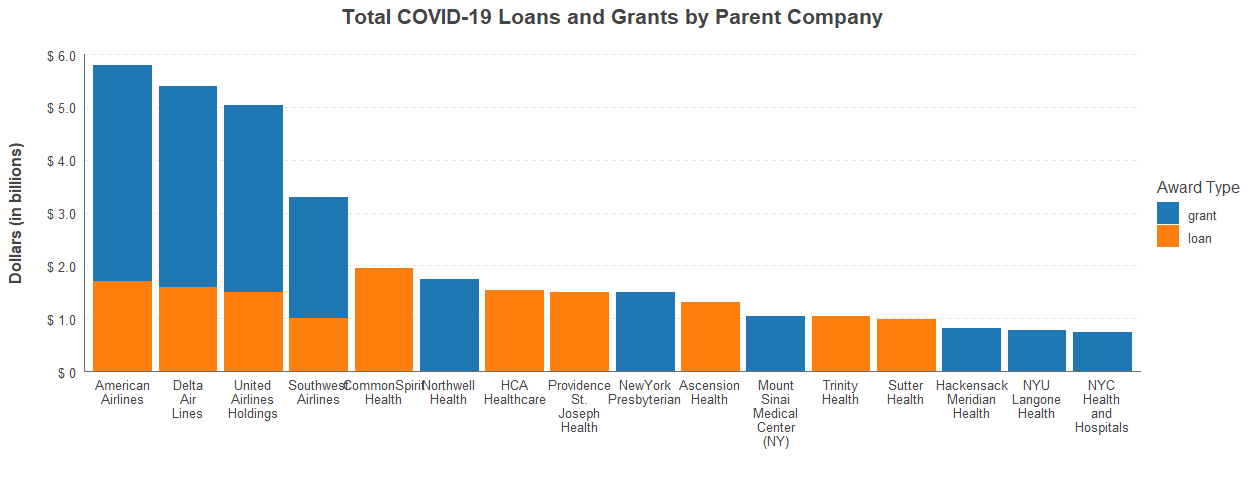
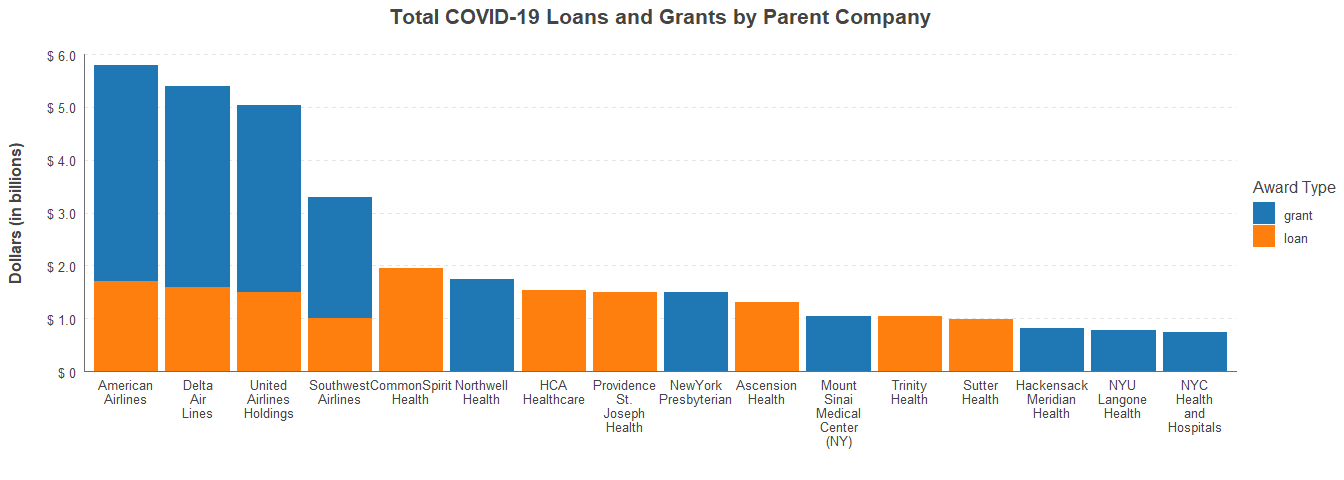
update 2

diff --git a/3_Top_Parent_Companies/3_top_parent_companies_basic.md b/3_Top_Parent_Companies/3_top_parent_companies_basic.md
@@ -1,4 +1,4 @@
-Part 3: Top Parent Company Recipients (extended)
+Part 3: Top Parent Company Recipients
 ================
 
 In part 2, we looked into how grant & loan money was distributed amongst
@@ -12,11 +12,8 @@ First, load the packages and read the data from part 1.
 ``` r
 options(scipen = 999)
 library(dplyr)
-library(stringr)
 library(ggplot2) # for graphing
-library(ggthemr) # set theme for graphs
-source('../plot_themes/bar_graph_theme.R')
-source('../functions/add_thousands_comma.R')
+theme_set(theme_bw())
 
 df <- read.csv('../data/formatted_loan_data_6_17.csv', header = TRUE)
 ```
@@ -75,14 +72,12 @@ top10.df$award_amount_mil <- top10.df$award_amount / 1000000
 
 p1 <- ggplot(top10.df %>% group_by(p_company)) +
   geom_bar(aes(x = p_company, y = award_amount_mil), stat = 'identity') +
-  scale_x_discrete() +
-  facet_grid(award_type ~ .) +
-  theme.tweaks.bar
+  facet_grid(award_type ~ .)
 
 p1
 ```
 
-![](3_top_parent_companies_files/figure-gfm/unnamed-chunk-3-1.png)<!-- -->
+![](3_top_parent_companies_basic_files/figure-gfm/unnamed-chunk-3-1.png)<!-- -->
 
 This visualization shows that:
 
@@ -93,41 +88,19 @@ This visualization shows that:
 So, let’s try a stacked bar graph.
 
 ``` r
-top10.df$`Award Type` <- top10.df$award_type
 top10.df$company_title <- gsub(' |-', '\n', top10.df$p_company) # wrap x-axis labels so they don't overlap
 
-### re-order nightmare for ggplot2
-lbls <- top10.df %>%
-  ungroup() %>%
-  arrange(desc(award_amount)) %>%
-  select(company_title) %>%
-  distinct() %>%
-  unlist()
-names(lbls) <- NULL
-
-top10.df$company_title <- factor(top10.df$company_title, 
-                                 levels = lbls)
-
-### now graph
 p2 <- ggplot(top10.df) +
-  geom_bar(aes(x = company_title, y = award_amount_mil, fill = `Award Type`), stat = 'identity') +
-  scale_y_continuous(limits = c(0, 6000),
-                     breaks = seq(0, 6000, 1000),
-                     labels = c('$ 0', '$ 1.0', '$ 2.0', '$ 3.0', '$ 4.0', '$ 5.0', '$ 6.0'),
-                     expand = c(0,0)) +
+  geom_bar(aes(x = company_title, y = award_amount_mil, fill = award_type), stat = 'identity') +
   labs(
     title = 'Total COVID-19 Loans and Grants by Parent Company',
-    y = 'Dollars (in billions)',
-    x = '',
-    legend = 'Award Type'
-  ) +
-  scale_x_discrete() +
-  theme.tweaks.bar
-
+    x = 'Company',
+    y = 'Dollars (in billions)'
+  )
 p2
 ```
 
-![](3_top_parent_companies_files/figure-gfm/unnamed-chunk-4-1.png)<!-- -->
+![](3_top_parent_companies_basic_files/figure-gfm/unnamed-chunk-4-1.png)<!-- -->
 
 This helps us better visualize the data that is mixed between loans and
 grants with some overlapping companies. I want to note a couple of
@@ -148,6 +121,7 @@ top.grants <- sum(top10.df$award_amount[top10.df$award_type == 'grant'])
 
 perc.grants <- (top.grants / all.grants) * 100
 perc.grants <- round(perc.grants, 2)
+
 print(perc.grants)
 ```
 
@@ -170,5 +144,4 @@ print(perc.loans)
 
     ## [1] 13.54
 
-It turns out that 10 parent companies received about 13.54% of all grant
-money.
+The top 10 parent companies received about 13.54% of all grant money.
